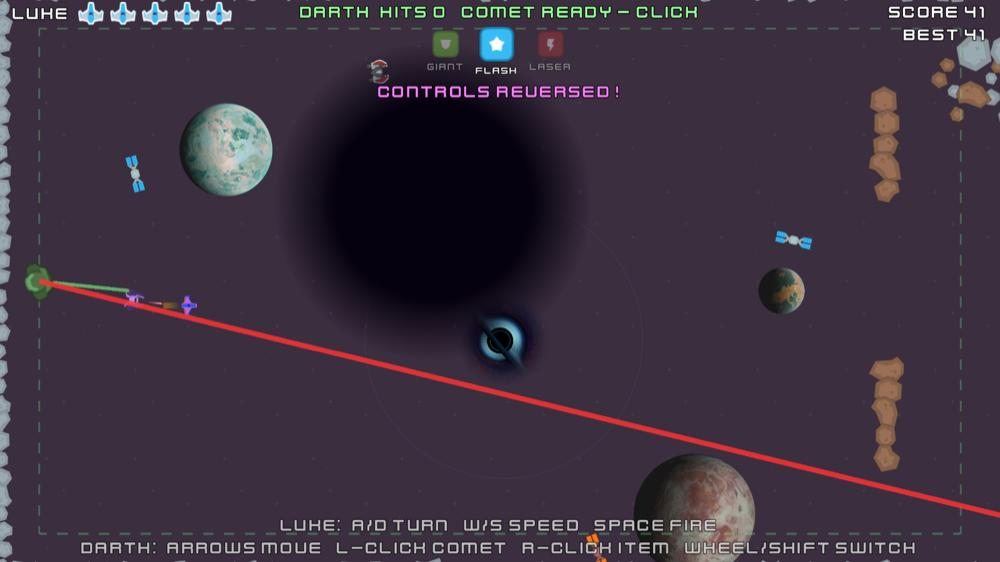
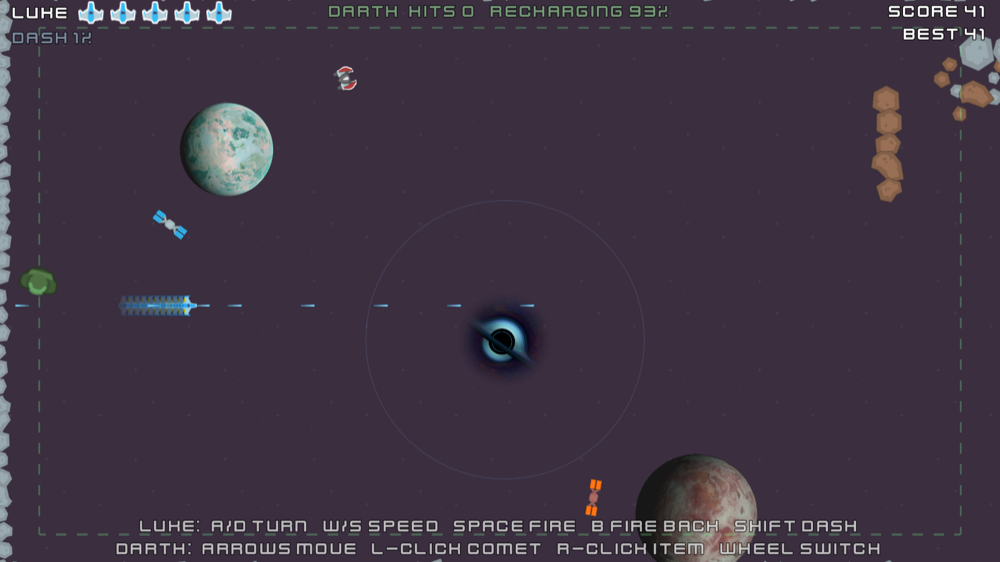
Add Luke's dash and backward gun; fewer barriers early on
- Shift: dash forward (+~370 px), 0.3 s where Luke can't lose a life,
  10 s cooldown, ghost trail, DASH status under Luke's lives
- B: backward gun out of the tail, same fire rate as the front gun with
  its own timer
- Darth switches items with the mouse wheel only (Shift is Luke's now)
- Opening section: removed the two extra planets, the lower rock strip
  and the bottom-right clump
- Endless part: 3000 px extra easy stretch, at most one obstacle per
  column until difficulty 0.2, more empty columns, smaller clumps and
  shorter strips early, no big planets early
- Fix a knockback error when hit dead centre

diff --git a/README.md b/README.md
@@ -16,14 +16,19 @@ Two players share one keyboard and mouse: **Luke** flies the starship and
 - **A / D:** rotate the ship
 - **W / S:** speed up / brake (speed is kept when you let go; the ship never
   fully stops)
-- **Space / J:** fire lasers
+- **Space / J:** fire lasers forward
+- **B:** fire lasers backward out of the tail (same rate as the front gun;
+  both can fire at once)
+- **Shift:** dash forward (about +370 px over half a second). Luke can't
+  lose a life for the first 0.3 s of a dash, so it can punch through a
+  laser, comet or bullet. Recharges in 10 s; shown under Luke's lives.
 
 **Darth, the alien astronaut**
 - **Arrow keys:** run along the dashed rectangle track around the edge of the
   screen. Press along the edge you're on to move. At a corner, press toward
   the next edge, or keep pressing the way you were going, to go round it.
 - **Left click:** throw a green comet toward the mouse (recharges for 4 s).
-- **Right click:** use the selected item. **Mouse wheel / Shift:** switch item.
+- **Right click:** use the selected item. **Mouse wheel:** switch item.
 
 **Both:** Enter / R restarts after Luke's ship is lost.
 
@@ -59,7 +64,9 @@ Darth's HITS count comet and laser hits on Luke.
   you (4 hits to destroy).
 - Right: asteroid belts (clumps plus short vertical and diagonal strips).
 - After that the level keeps generating forever from the same pieces. It
-  starts sparse and calm and ramps up until a score of about 2000: more rocks,
+  starts sparse and calm (one obstacle per column at most, small clumps,
+  many empty columns), stays easy until a score of about 640, then ramps up
+  until a score of about 2600: more rocks,
   planets and black holes, more enemy ships and chasers, more hostile
   satellites, faster and more frequent enemy fire, stronger black holes and
   more random comets. You can fly back a little, but not all the way.
